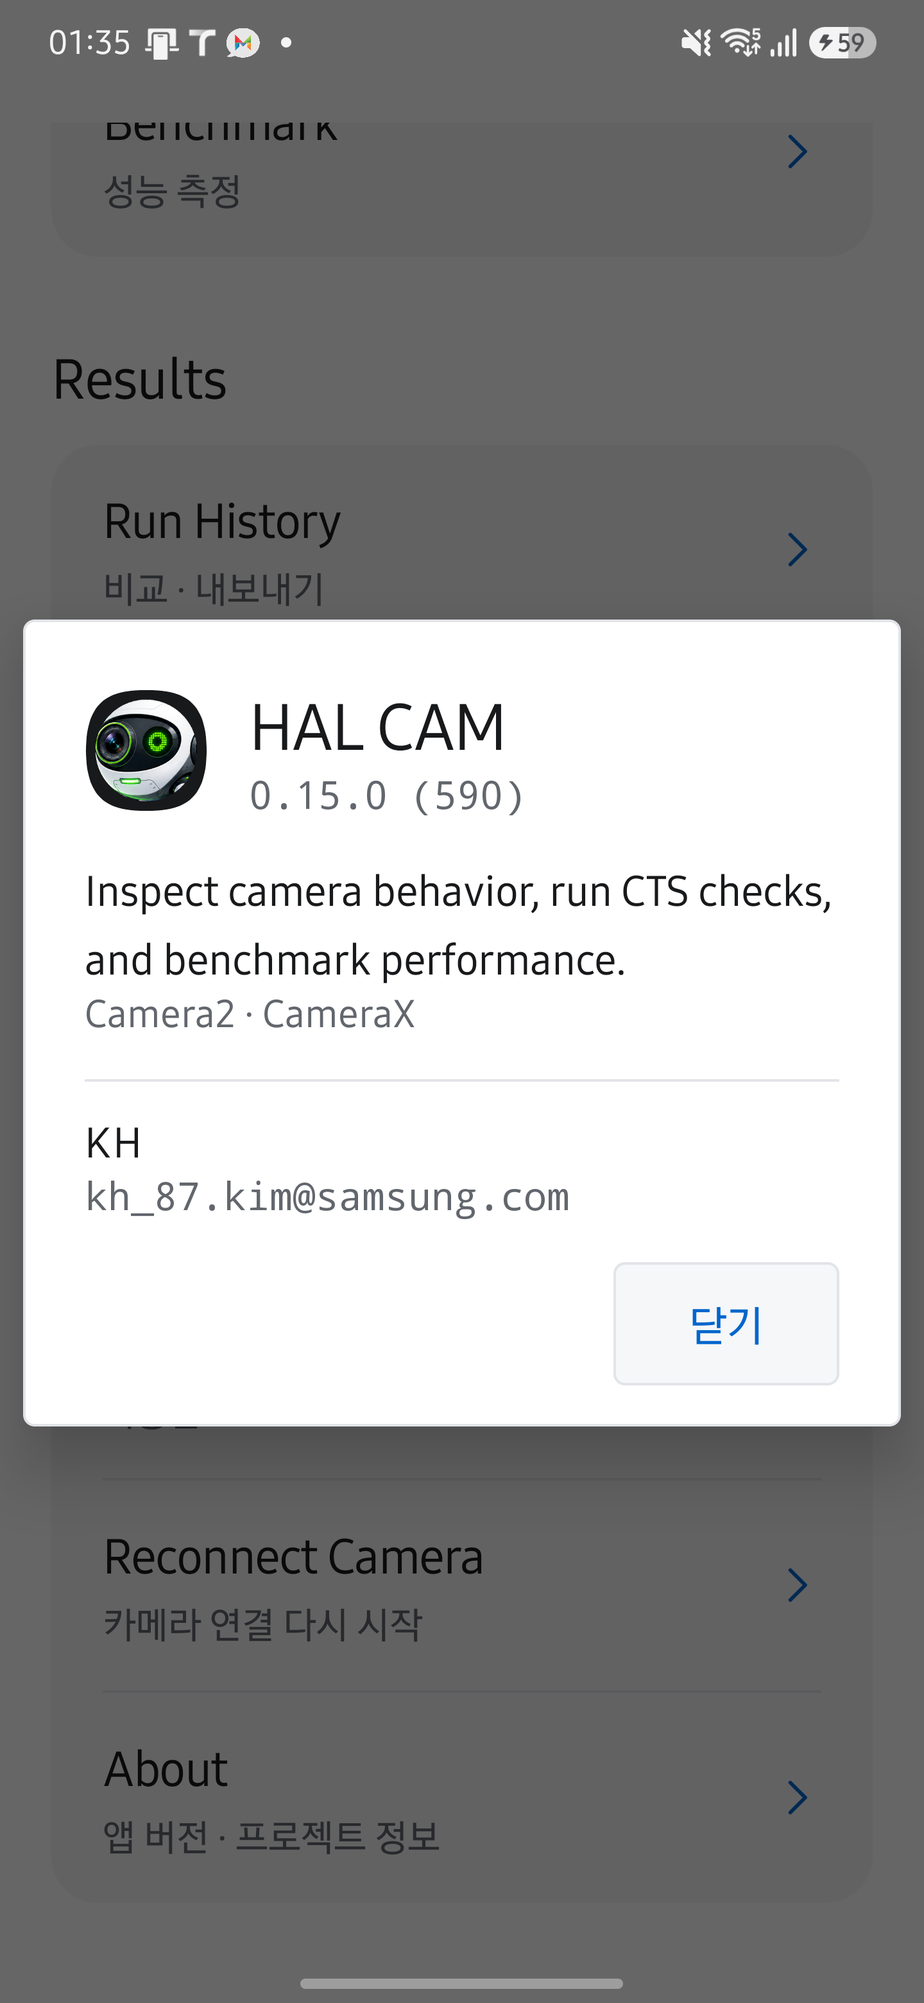
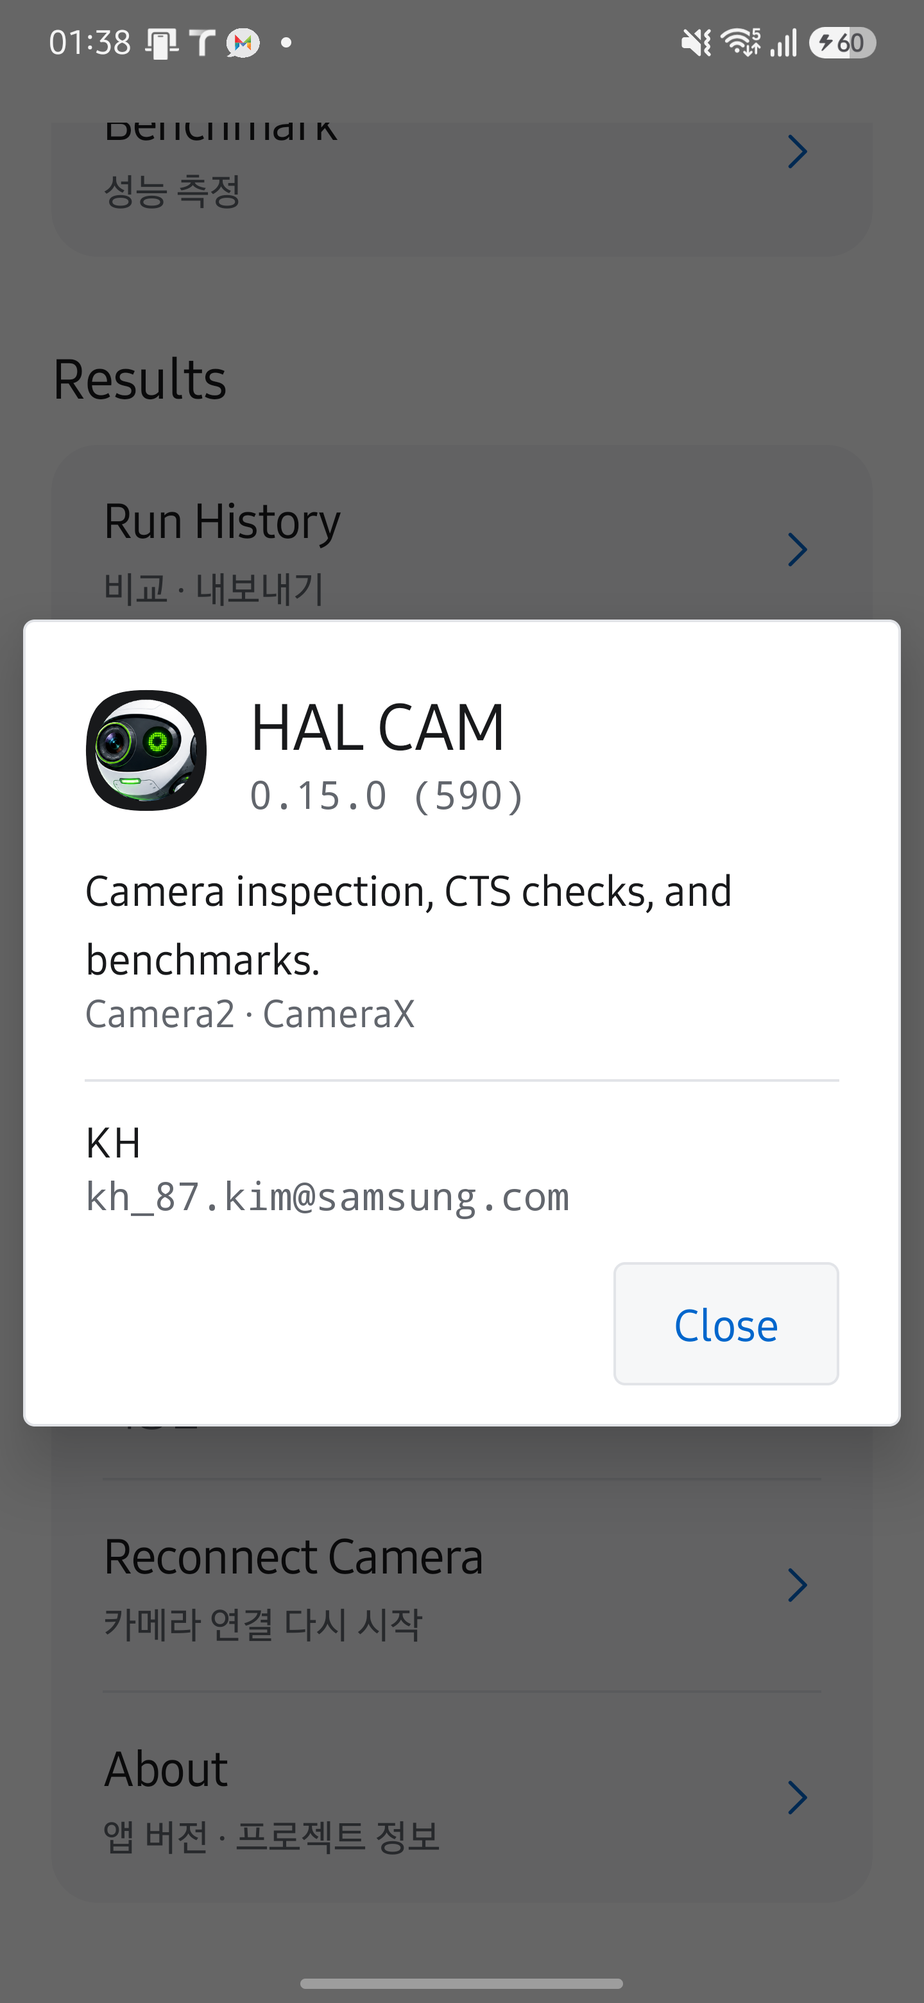
Shorten About copy and use English close label

Changed region(s): [[0.0938, 0.4353, 0.9062, 0.4974], [0.7188, 0.6529, 0.8438, 0.684], [0.9062, 0.0, 0.9375, 0.0311]]

diff --git a/docs/architecture.html b/docs/architecture.html
@@ -113,7 +113,7 @@
 <summary>근거와 검토 정보</summary><ul>
 <li>근거 파일: <code>app/src/main/java/dev/halcamera/cli/CommandCoordinator.kt</code>, <code>tools/halcam/halcam/cli.py</code>, <code>app/src/main/java/dev/halcamera/MainActivity.kt</code>, <code>app/src/main/java/dev/halcamera/WorkbenchActivity.kt</code>, <code>app/src/main/java/dev/halcamera/camera/CameraEngine.kt</code>, <code>app/src/main/java/dev/halcamera/telemetry/Telemetry.kt</code>, <code>app/src/main/java/dev/halcamera/telemetry/FlightRecorder.kt</code>, <code>app/src/main/java/dev/halcamera/benchmark/domain/BenchmarkRunner.kt</code>, <code>app/src/main/java/dev/halcamera/benchmark/domain/RunAssembler.kt</code>, <code>app/src/main/java/dev/halcamera/benchmark/domain/ScoreComposer.kt</code>, <code>app/src/main/java/dev/halcamera/benchmark/BenchmarkActivity.kt</code>, <code>app/src/main/java/dev/halcamera/benchmark/HistoryActivity.kt</code>, <code>app/src/main/java/dev/halcamera/benchmark/domain/RegressionDetector.kt</code></li>
 <li>근거 수준: 코드 확인</li>
-<li>검토 2026-09-28 @ <code>f30cd87</code> · Codex</li>
+<li>검토 2026-09-28 @ <code>63a7437</code> · Codex</li>
 </ul>
 </details><!-- omm:end id=overview --><h2 id="전체-구조도">전체 구조도</h2>
 <p>그림을 클릭하면 확대 화면이 열립니다. 키보드에서는 Tab으로 그림을 선택한 뒤 Enter 또는 Space를 누르세요.</p>
@@ -184,7 +184,7 @@
 <summary>근거와 검토 정보</summary><ul>
 <li>근거 파일: <code>app/src/main/java/dev/halcamera/cli/CommandCoordinator.kt</code>, <code>app/src/main/java/dev/halcamera/cli/LiveController.kt</code>, <code>app/src/main/java/dev/halcamera/cli/BenchmarkController.kt</code>, <code>app/src/main/java/dev/halcamera/camera/CameraEngine.kt</code>, <code>app/src/main/java/dev/halcamera/camera/BenchmarkRecorder.kt</code>, <code>app/src/main/java/dev/halcamera/benchmark/platform/EnvironmentProbe.kt</code>, <code>app/src/main/java/dev/halcamera/benchmark/BenchmarkActivity.kt</code>, <code>app/src/main/java/dev/halcamera/benchmark/HistoryActivity.kt</code>, <code>app/src/main/java/dev/halcamera/benchmark/domain/RunIndex.kt</code>, <code>app/src/main/java/dev/halcamera/benchmark/domain/BenchmarkCsv.kt</code>, <code>app/src/main/java/dev/halcamera/benchmark/domain/ScoreComposer.kt</code>, <code>app/src/main/java/dev/halcamera/benchmark/platform/BenchmarkReport.kt</code>, <code>app/src/main/java/dev/halcamera/benchmark/domain/BenchmarkReportCodec.kt</code>, <code>app/src/main/java/dev/halcamera/telemetry/FlightRecorder.kt</code>, <code>app/src/main/java/dev/halcamera/MainActivity.kt</code>, <code>app/src/main/java/dev/halcamera/camera/RecentMediaThumbnail.kt</code>, <code>app/src/main/java/dev/halcamera/ui/RecentMediaButton.kt</code>, <code>app/src/main/java/dev/halcamera/ui/Look.kt</code>, <code>app/src/main/java/dev/halcamera/cts/recording/BasicRecordingRules.kt</code>, <code>app/src/main/java/dev/halcamera/cts/CtsEntryActivity.kt</code>, <code>app/src/main/java/dev/halcamera/cts/vendored/VendoredCaseActivity.kt</code>, <code>app/src/main/java/dev/halcamera/cts/vendored/VendoredCtsListActivity.kt</code>, <code>app/src/main/java/dev/halcamera/cts/CtsCaseActivity.kt</code>, <code>app/src/main/java/dev/halcamera/cts/CtsCaseListActivity.kt</code>, <code>app/src/main/java/dev/halcamera/cts/suite/CtsChecklistActivity.kt</code>, <code>app/src/main/java/dev/halcamera/cts/suite/CtsSuiteRunActivity.kt</code>, <code>app/src/main/java/dev/halcamera/cts/suite/SuitePlan.kt</code>, <code>app/src/main/java/dev/halcamera/cts/suite/SuiteReport.kt</code>, <code>app/src/main/java/dev/halcamera/cts/CtsCatalog.kt</code>, <code>app/src/main/java/dev/halcamera/cts/CtsRunner.kt</code>, <code>app/src/main/java/dev/halcamera/cts/CameraCaseRunner.kt</code>, <code>app/src/main/java/dev/halcamera/cts/Camera2Ops.kt</code>, <code>app/src/main/java/dev/halcamera/cts/onoff/FastOnOffRules.kt</code>, <code>app/src/main/java/dev/halcamera/cts/switching/SwitchingRules.kt</code>, <code>app/src/main/java/dev/halcamera/cts/sizes/AllSizeOnOffRules.kt</code>, <code>app/src/main/java/dev/halcamera/cts/combination/StillPreviewCombinationRules.kt</code>, <code>app/src/main/java/dev/halcamera/cts/snapshot/VideoSnapshotRules.kt</code>, <code>app/src/main/java/dev/halcamera/CameraProbeActivity.kt</code>, <code>app/src/main/java/dev/halcamera/camera/CameraProbe.kt</code>, <code>app/src/main/java/dev/halcamera/camera/CameraProbeReader.kt</code></li>
 <li>근거 수준: 코드 확인</li>
-<li>검토 2026-09-28 @ <code>f30cd87</code> · Codex</li>
+<li>검토 2026-09-28 @ <code>63a7437</code> · Codex</li>
 </ul>
 </details><!-- omm:end id=module-roles --><h2 id="주요-실행-흐름">주요 실행 흐름</h2>
 <!-- omm:begin id=runtime-flow --><p><strong>실행 실패는 러너 결과에서, 측정값의 차이는 이벤트와 계산 규칙에서 확인하세요.</strong> 벤치마크의 입력은 카메라 콜백 이벤트와 러너가 기록한 실행 시각입니다.</p>
@@ -358,7 +358,7 @@
 <summary>근거와 검토 정보</summary><ul>
 <li>근거 파일: <code>app/src/main/java/dev/halcamera/cli/CliProvider.kt</code>, <code>app/src/main/java/dev/halcamera/cli/CommandCoordinator.kt</code>, <code>app/src/main/java/dev/halcamera/cli/CommandStore.kt</code>, <code>app/src/main/java/dev/halcamera/camera/CameraEngine.kt</code>, <code>app/src/main/java/dev/halcamera/camera/CameraEndpointResolver.kt</code>, <code>app/src/main/java/dev/halcamera/telemetry/IncidentExporter.kt</code>, <code>app/src/main/java/dev/halcamera/benchmark/domain/BenchmarkRunner.kt</code>, <code>app/src/main/java/dev/halcamera/benchmark/domain/RunValidity.kt</code>, <code>app/src/main/java/dev/halcamera/benchmark/domain/ScoreComposer.kt</code>, <code>app/src/main/java/dev/halcamera/benchmark/domain/RegressionRules.kt</code>, <code>app/src/main/java/dev/halcamera/benchmark/platform/BenchmarkReport.kt</code>, <code>app/src/main/java/dev/halcamera/benchmark/domain/BenchmarkReportCodec.kt</code>, <code>app/src/main/java/dev/halcamera/benchmark/platform/BenchmarkStore.kt</code>, <code>app/src/main/java/dev/halcamera/benchmark/domain/BenchmarkIndex.kt</code>, <code>app/src/main/java/dev/halcamera/benchmark/domain/AtomicFiles.kt</code></li>
 <li>근거 수준: 코드 확인</li>
-<li>검토 2026-09-28 @ <code>f30cd87</code> · Codex</li>
+<li>검토 2026-09-28 @ <code>63a7437</code> · Codex</li>
 </ul>
 </details><!-- omm:end id=constraints --><h2 id="변경-후-검증">변경 후 검증</h2>
 <p>Android 의존성이 없는 러너와 평가 로직은 JVM 단위 테스트로 확인할 수 있습니다. 저장소 루트에서 실행하세요.</p>
@@ -402,7 +402,7 @@
 <tr>
 <td>구조 원본 <code>overall-architecture</code></td>
 <td>최신</td>
-<td>검토 2026-09-28 @ <code>f30cd87</code> · Codex</td>
+<td>검토 2026-09-28 @ <code>63a7437</code> · Codex</td>
 </tr>
 <tr>
 <td>구조 원본 <code>state-transitions</code></td>
@@ -427,12 +427,12 @@
 <tr>
 <td>원고 <code>overview</code></td>
 <td>최신</td>
-<td>검토 2026-09-28 @ <code>f30cd87</code> · Codex</td>
+<td>검토 2026-09-28 @ <code>63a7437</code> · Codex</td>
 </tr>
 <tr>
 <td>원고 <code>module-roles</code></td>
 <td>최신</td>
-<td>검토 2026-09-28 @ <code>f30cd87</code> · Codex</td>
+<td>검토 2026-09-28 @ <code>63a7437</code> · Codex</td>
 </tr>
 <tr>
 <td>원고 <code>runtime-flow</code></td>
@@ -442,7 +442,7 @@
 <tr>
 <td>원고 <code>constraints</code></td>
 <td>최신</td>
-<td>검토 2026-09-28 @ <code>f30cd87</code> · Codex</td>
+<td>검토 2026-09-28 @ <code>63a7437</code> · Codex</td>
 </tr>
 </tbody></table>
 <!-- omm:end id=status --><p>표의 <code>최신</code>은 기록된 근거와 원고가 검토 이후 바뀌지 않았다는 뜻입니다. 모든 기기에서 동작을 검증했다는 뜻은 아닙니다.</p>

diff --git a/docs/engine.html b/docs/engine.html
@@ -140,7 +140,7 @@
 <summary>근거와 검토 정보</summary><ul>
 <li>근거 파일: <code>app/src/main/java/dev/halcamera/camera/CameraEngine.kt</code>, <code>app/src/main/java/dev/halcamera/camera/Camera2Engine.kt</code>, <code>app/src/main/java/dev/halcamera/camera/CameraXEngine.kt</code>, <code>app/src/main/java/dev/halcamera/MainActivity.kt</code>, <code>app/src/main/java/dev/halcamera/ui/LiveControlBar.kt</code>, <code>app/src/main/java/dev/halcamera/ui/FocusRing.kt</code>, <code>app/src/main/java/dev/halcamera/camera/LiveControls.kt</code>, <code>app/src/main/java/dev/halcamera/benchmark/BenchmarkActivity.kt</code>, <code>app/src/main/java/dev/halcamera/benchmark/domain/StartCardPresenter.kt</code>, <code>app/src/main/java/dev/halcamera/cli/LiveController.kt</code>, <code>app/src/main/java/dev/halcamera/telemetry/Telemetry.kt</code></li>
 <li>근거 수준: 코드 확인</li>
-<li>검토 2026-09-28 @ <code>f30cd87</code> · Codex</li>
+<li>검토 2026-09-28 @ <code>63a7437</code> · Codex</li>
 </ul>
 </details><!-- omm:end id=contract --><h2 id="camera2-엔진">Camera2 엔진</h2>
 <!-- omm:begin id=camera2 --><p><strong>Camera2Engine은 앱에서 CaptureRequest를 직접 구성합니다.</strong> <code>request_observed</code>에 기록한 키를 HAL 로그와 대조할 수 있습니다. 엔진 자체는 세션, 요청 구성, 줌, Live 제어를 담당하고, 사진은 <code>Camera2StillCapture</code>, Live 녹화는 <code>Camera2LiveRecorder</code>, 터치 측광은 <code>Camera2TouchFocus</code>, 벤치마크 녹화는 <code>BenchmarkRecorder</code>가 맡습니다. 카메라 요청과 capture 콜백은 엔진이 만든 카메라 스레드 하나에서 처리하고, 버퍼 relay와 파일 저장은 각자의 스레드에서 처리합니다.</p>
@@ -235,7 +235,7 @@
 <summary>근거와 검토 정보</summary><ul>
 <li>근거 파일: <code>app/src/main/java/dev/halcamera/camera/Camera2Engine.kt</code>, <code>app/src/main/java/dev/halcamera/camera/Camera2StillCapture.kt</code>, <code>app/src/main/java/dev/halcamera/camera/Camera2LiveRecorder.kt</code>, <code>app/src/main/java/dev/halcamera/camera/BenchmarkRecorder.kt</code>, <code>app/src/main/java/dev/halcamera/camera/PreviewBufferRelay.kt</code>, <code>app/src/main/java/dev/halcamera/camera/RecordingBufferRelay.kt</code>, <code>app/src/main/java/dev/halcamera/camera/StreamConfiguration.kt</code>, <code>app/src/main/java/dev/halcamera/camera/StillPair.kt</code>, <code>app/src/main/java/dev/halcamera/camera/YuvPacking.kt</code>, <code>app/src/main/java/dev/halcamera/camera/StillEncoding.kt</code>, <code>app/src/main/java/dev/halcamera/camera/MediaLibrary.kt</code>, <code>app/src/main/java/dev/halcamera/camera/LiveControls.kt</code>, <code>app/src/main/java/dev/halcamera/camera/LiveControlRequests.kt</code>, <code>app/src/main/java/dev/halcamera/camera/TouchMeter.kt</code>, <code>app/src/main/java/dev/halcamera/camera/TouchMeterRequests.kt</code></li>
 <li>근거 수준: 코드 확인</li>
-<li>검토 2026-09-28 @ <code>f30cd87</code> · Codex</li>
+<li>검토 2026-09-28 @ <code>63a7437</code> · Codex</li>
 </ul>
 </details><!-- omm:end id=camera2 --><h2 id="camerax-엔진">CameraX 엔진</h2>
 <!-- omm:begin id=camerax --><p><strong>CameraXEngine은 CameraX use case로 Camera2 엔진과 같은 Live 기능을 제공하지만, 요청 키 일부는 CameraX가 정합니다.</strong> 앱이 CameraX 1.6.2에 직접 넣는 Camera2 키는 AE 잠금(<code>CONTROL_AE_LOCK</code>)과 AF 잠금 해제용 cancel trigger뿐입니다. 엔진 자체는 use case bind, 줌, 수명 주기를 담당하고, 사진은 <code>CameraXStillCapture</code>, 녹화는 <code>CameraXLiveRecorder</code>, Live 제어와 터치 측광은 <code>CameraXControls</code>가 맡습니다.</p>
@@ -303,7 +303,7 @@
 <summary>근거와 검토 정보</summary><ul>
 <li>근거 파일: <code>app/src/main/java/dev/halcamera/camera/CameraXEngine.kt</code>, <code>app/src/main/java/dev/halcamera/camera/CameraXStillCapture.kt</code>, <code>app/src/main/java/dev/halcamera/camera/CameraXLiveRecorder.kt</code>, <code>app/src/main/java/dev/halcamera/camera/CameraXControls.kt</code>, <code>app/src/main/java/dev/halcamera/camera/StillEncoding.kt</code>, <code>app/src/main/java/dev/halcamera/camera/YuvPacking.kt</code>, <code>app/src/main/java/dev/halcamera/camera/MediaLibrary.kt</code>, <code>app/src/main/java/dev/halcamera/camera/StreamConfiguration.kt</code>, <code>app/src/main/java/dev/halcamera/camera/LiveControls.kt</code>, <code>app/src/main/java/dev/halcamera/camera/TouchMeter.kt</code>, <code>app/build.gradle.kts</code></li>
 <li>근거 수준: 코드 확인</li>
-<li>검토 2026-09-28 @ <code>f30cd87</code> · Codex</li>
+<li>검토 2026-09-28 @ <code>63a7437</code> · Codex</li>
 </ul>
 </details><!-- omm:end id=camerax --><h2 id="두-엔진의-차이">두 엔진의 차이</h2>
 <!-- omm:begin id=comparison --><p><strong>두 엔진의 측정값을 비교하기 전에 아래 차이가 결과에 영향을 주는지 확인하세요.</strong> 같은 조작이라도 엔진이 카메라에 보내는 요청과 앱이 기록하는 시각이 다를 수 있습니다.</p>
@@ -360,7 +360,7 @@
 <summary>근거와 검토 정보</summary><ul>
 <li>근거 파일: <code>app/src/main/java/dev/halcamera/camera/Camera2Engine.kt</code>, <code>app/src/main/java/dev/halcamera/camera/Camera2StillCapture.kt</code>, <code>app/src/main/java/dev/halcamera/camera/Camera2LiveRecorder.kt</code>, <code>app/src/main/java/dev/halcamera/camera/TouchMeterRequests.kt</code>, <code>app/src/main/java/dev/halcamera/camera/CameraXEngine.kt</code>, <code>app/src/main/java/dev/halcamera/camera/CameraXStillCapture.kt</code>, <code>app/src/main/java/dev/halcamera/camera/CameraXLiveRecorder.kt</code>, <code>app/src/main/java/dev/halcamera/camera/CameraXControls.kt</code>, <code>app/src/main/java/dev/halcamera/MainActivity.kt</code></li>
 <li>근거 수준: 코드 확인</li>
-<li>검토 2026-09-28 @ <code>f30cd87</code> · Codex</li>
+<li>검토 2026-09-28 @ <code>63a7437</code> · Codex</li>
 </ul>
 </details><!-- omm:end id=comparison --><h3 id="기기에서-관찰한-차이">기기에서 관찰한 차이</h3>
 <p>Galaxy S25+에서 확인한 CameraX 관찰 결과와 검증 조건은 <a href="evidence.html#camerax-기기-관찰">Evidence</a>에 있습니다.</p>
@@ -380,27 +380,27 @@
 <tbody><tr>
 <td>구조 원본 <code>overall-architecture</code></td>
 <td>최신</td>
-<td>검토 2026-09-28 @ <code>f30cd87</code> · Codex</td>
+<td>검토 2026-09-28 @ <code>63a7437</code> · Codex</td>
 </tr>
 <tr>
 <td>원고 <code>contract</code></td>
 <td>최신</td>
-<td>검토 2026-09-28 @ <code>f30cd87</code> · Codex</td>
+<td>검토 2026-09-28 @ <code>63a7437</code> · Codex</td>
 </tr>
 <tr>
 <td>원고 <code>camera2</code></td>
 <td>최신</td>
-<td>검토 2026-09-28 @ <code>f30cd87</code> · Codex</td>
+<td>검토 2026-09-28 @ <code>63a7437</code> · Codex</td>
 </tr>
 <tr>
 <td>원고 <code>camerax</code></td>
 <td>최신</td>
-<td>검토 2026-09-28 @ <code>f30cd87</code> · Codex</td>
+<td>검토 2026-09-28 @ <code>63a7437</code> · Codex</td>
 </tr>
 <tr>
 <td>원고 <code>comparison</code></td>
 <td>최신</td>
-<td>검토 2026-09-28 @ <code>f30cd87</code> · Codex</td>
+<td>검토 2026-09-28 @ <code>63a7437</code> · Codex</td>
 </tr>
 </tbody></table>
 <!-- omm:end id=status --><p>표의 <code>최신</code>은 기록된 근거와 원고가 검토 이후 바뀌지 않았다는 뜻입니다. 모든 기기에서 동작을 검증했다는 뜻은 아닙니다.</p>

diff --git a/docs/evidence.html b/docs/evidence.html
@@ -128,7 +128,7 @@
 <li>근거 파일: <code>app/src/main/java/dev/halcamera/camera/CameraXControls.kt</code>, <code>app/src/main/java/dev/halcamera/camera/CameraXStillCapture.kt</code>, <code>app/src/main/java/dev/halcamera/camera/CameraXLiveRecorder.kt</code></li>
 <li>기기 검증: <code>V-002</code></li>
 <li>근거 수준: 기기 검증</li>
-<li>검토 2026-09-28 @ <code>f30cd87</code> · Codex</li>
+<li>검토 2026-09-28 @ <code>63a7437</code> · Codex</li>
 </ul>
 </details><!-- omm:end id=device-notes --><h2 id="문서를-수정하고-검증하세요">문서를 수정하고 검증하세요</h2>
 <pre><code class="language-mermaid">flowchart LR
@@ -203,12 +203,12 @@ node tools/docgen/docflow.mjs check --ci
 <tbody><tr>
 <td>구조 원본 <code>overall-architecture</code></td>
 <td>최신</td>
-<td>검토 2026-09-28 @ <code>f30cd87</code> · Codex</td>
+<td>검토 2026-09-28 @ <code>63a7437</code> · Codex</td>
 </tr>
 <tr>
 <td>원고 <code>device-notes</code></td>
 <td>최신</td>
-<td>검토 2026-09-28 @ <code>f30cd87</code> · Codex</td>
+<td>검토 2026-09-28 @ <code>63a7437</code> · Codex</td>
 </tr>
 </tbody></table>
 <!-- omm:end id=status --><p><strong>다음 단계:</strong> 구현 구조는 <a href="architecture.html">Architecture</a>, 과거의 선택은 <a href="_inputs/decisions.html">설계 결정 원문</a>에서 확인하세요.</p>

diff --git a/app/src/main/java/dev/halcamera/ui/AboutSheet.kt b/app/src/main/java/dev/halcamera/ui/AboutSheet.kt
@@ -20,7 +20,7 @@ import dev.halcamera.R
 object AboutSheet {
     const val AUTHOR = "KH"
     const val EMAIL = "kh_87.kim@samsung.com"
-    private const val TAGLINE = "Inspect camera behavior, run CTS checks, and benchmark performance."
+    private const val TAGLINE = "Camera inspection, CTS checks, and benchmarks."
     private const val STACKS = "Camera2 · CameraX"
     private const val EASTER_EGG_TAPS = 5
 
@@ -81,7 +81,7 @@ object AboutSheet {
 
         root.addView(Look.row(context).apply {
             gravity = Gravity.END
-            addView(Look.ghostButton(context, "닫기") { dialog.dismiss() })
+            addView(Look.ghostButton(context, "Close") { dialog.dismiss() })
         }, LinearLayout.LayoutParams(-1, -2).apply { topMargin = d })
 
         dialog.show()

diff --git a/guide/engine.md b/guide/engine.md
@@ -83,7 +83,7 @@ Live 제어와 터치 측광은 다음 이벤트를 추가로 남깁니다.
 
 - 근거 파일: `app/src/main/java/dev/halcamera/camera/CameraEngine.kt`, `app/src/main/java/dev/halcamera/camera/Camera2Engine.kt`, `app/src/main/java/dev/halcamera/camera/CameraXEngine.kt`, `app/src/main/java/dev/halcamera/MainActivity.kt`, `app/src/main/java/dev/halcamera/ui/LiveControlBar.kt`, `app/src/main/java/dev/halcamera/ui/FocusRing.kt`, `app/src/main/java/dev/halcamera/camera/LiveControls.kt`, `app/src/main/java/dev/halcamera/benchmark/BenchmarkActivity.kt`, `app/src/main/java/dev/halcamera/benchmark/domain/StartCardPresenter.kt`, `app/src/main/java/dev/halcamera/cli/LiveController.kt`, `app/src/main/java/dev/halcamera/telemetry/Telemetry.kt`
 - 근거 수준: 코드 확인
-- 검토 2026-09-28 @ `f30cd87` · Codex
+- 검토 2026-09-28 @ `63a7437` · Codex
 
 </details>
 
@@ -161,7 +161,7 @@ Live 세션은 프리뷰, YUV_420_888, JPEG 세 스트림으로 구성합니다.
 
 - 근거 파일: `app/src/main/java/dev/halcamera/camera/Camera2Engine.kt`, `app/src/main/java/dev/halcamera/camera/Camera2StillCapture.kt`, `app/src/main/java/dev/halcamera/camera/Camera2LiveRecorder.kt`, `app/src/main/java/dev/halcamera/camera/BenchmarkRecorder.kt`, `app/src/main/java/dev/halcamera/camera/PreviewBufferRelay.kt`, `app/src/main/java/dev/halcamera/camera/RecordingBufferRelay.kt`, `app/src/main/java/dev/halcamera/camera/StreamConfiguration.kt`, `app/src/main/java/dev/halcamera/camera/StillPair.kt`, `app/src/main/java/dev/halcamera/camera/YuvPacking.kt`, `app/src/main/java/dev/halcamera/camera/StillEncoding.kt`, `app/src/main/java/dev/halcamera/camera/MediaLibrary.kt`, `app/src/main/java/dev/halcamera/camera/LiveControls.kt`, `app/src/main/java/dev/halcamera/camera/LiveControlRequests.kt`, `app/src/main/java/dev/halcamera/camera/TouchMeter.kt`, `app/src/main/java/dev/halcamera/camera/TouchMeterRequests.kt`
 - 근거 수준: 코드 확인
-- 검토 2026-09-28 @ `f30cd87` · Codex
+- 검토 2026-09-28 @ `63a7437` · Codex
 
 </details>
 
@@ -228,7 +228,7 @@ AE 재잠금은 Camera2와 같은 `AeRelock` 규칙을 씁니다. 다만 CameraX
 
 - 근거 파일: `app/src/main/java/dev/halcamera/camera/CameraXEngine.kt`, `app/src/main/java/dev/halcamera/camera/CameraXStillCapture.kt`, `app/src/main/java/dev/halcamera/camera/CameraXLiveRecorder.kt`, `app/src/main/java/dev/halcamera/camera/CameraXControls.kt`, `app/src/main/java/dev/halcamera/camera/StillEncoding.kt`, `app/src/main/java/dev/halcamera/camera/YuvPacking.kt`, `app/src/main/java/dev/halcamera/camera/MediaLibrary.kt`, `app/src/main/java/dev/halcamera/camera/StreamConfiguration.kt`, `app/src/main/java/dev/halcamera/camera/LiveControls.kt`, `app/src/main/java/dev/halcamera/camera/TouchMeter.kt`, `app/build.gradle.kts`
 - 근거 수준: 코드 확인
-- 검토 2026-09-28 @ `f30cd87` · Codex
+- 검토 2026-09-28 @ `63a7437` · Codex
 
 </details>
 
@@ -256,7 +256,7 @@ AE 재잠금은 Camera2와 같은 `AeRelock` 규칙을 씁니다. 다만 CameraX
 
 - 근거 파일: `app/src/main/java/dev/halcamera/camera/Camera2Engine.kt`, `app/src/main/java/dev/halcamera/camera/Camera2StillCapture.kt`, `app/src/main/java/dev/halcamera/camera/Camera2LiveRecorder.kt`, `app/src/main/java/dev/halcamera/camera/TouchMeterRequests.kt`, `app/src/main/java/dev/halcamera/camera/CameraXEngine.kt`, `app/src/main/java/dev/halcamera/camera/CameraXStillCapture.kt`, `app/src/main/java/dev/halcamera/camera/CameraXLiveRecorder.kt`, `app/src/main/java/dev/halcamera/camera/CameraXControls.kt`, `app/src/main/java/dev/halcamera/MainActivity.kt`
 - 근거 수준: 코드 확인
-- 검토 2026-09-28 @ `f30cd87` · Codex
+- 검토 2026-09-28 @ `63a7437` · Codex
 
 </details>
 
@@ -277,11 +277,11 @@ Galaxy S25+에서 확인한 CameraX 관찰 결과와 검증 조건은 [Evidence]
 
 | 항목 | 최신성 | 검토 |
 | --- | --- | --- |
-| 구조 원본 `overall-architecture` | 최신 | 검토 2026-09-28 @ `f30cd87` · Codex |
-| 원고 `contract` | 최신 | 검토 2026-09-28 @ `f30cd87` · Codex |
-| 원고 `camera2` | 최신 | 검토 2026-09-28 @ `f30cd87` · Codex |
-| 원고 `camerax` | 최신 | 검토 2026-09-28 @ `f30cd87` · Codex |
-| 원고 `comparison` | 최신 | 검토 2026-09-28 @ `f30cd87` · Codex |
+| 구조 원본 `overall-architecture` | 최신 | 검토 2026-09-28 @ `63a7437` · Codex |
+| 원고 `contract` | 최신 | 검토 2026-09-28 @ `63a7437` · Codex |
+| 원고 `camera2` | 최신 | 검토 2026-09-28 @ `63a7437` · Codex |
+| 원고 `camerax` | 최신 | 검토 2026-09-28 @ `63a7437` · Codex |
+| 원고 `comparison` | 최신 | 검토 2026-09-28 @ `63a7437` · Codex |
 
 <!-- omm:end id=status -->
 
